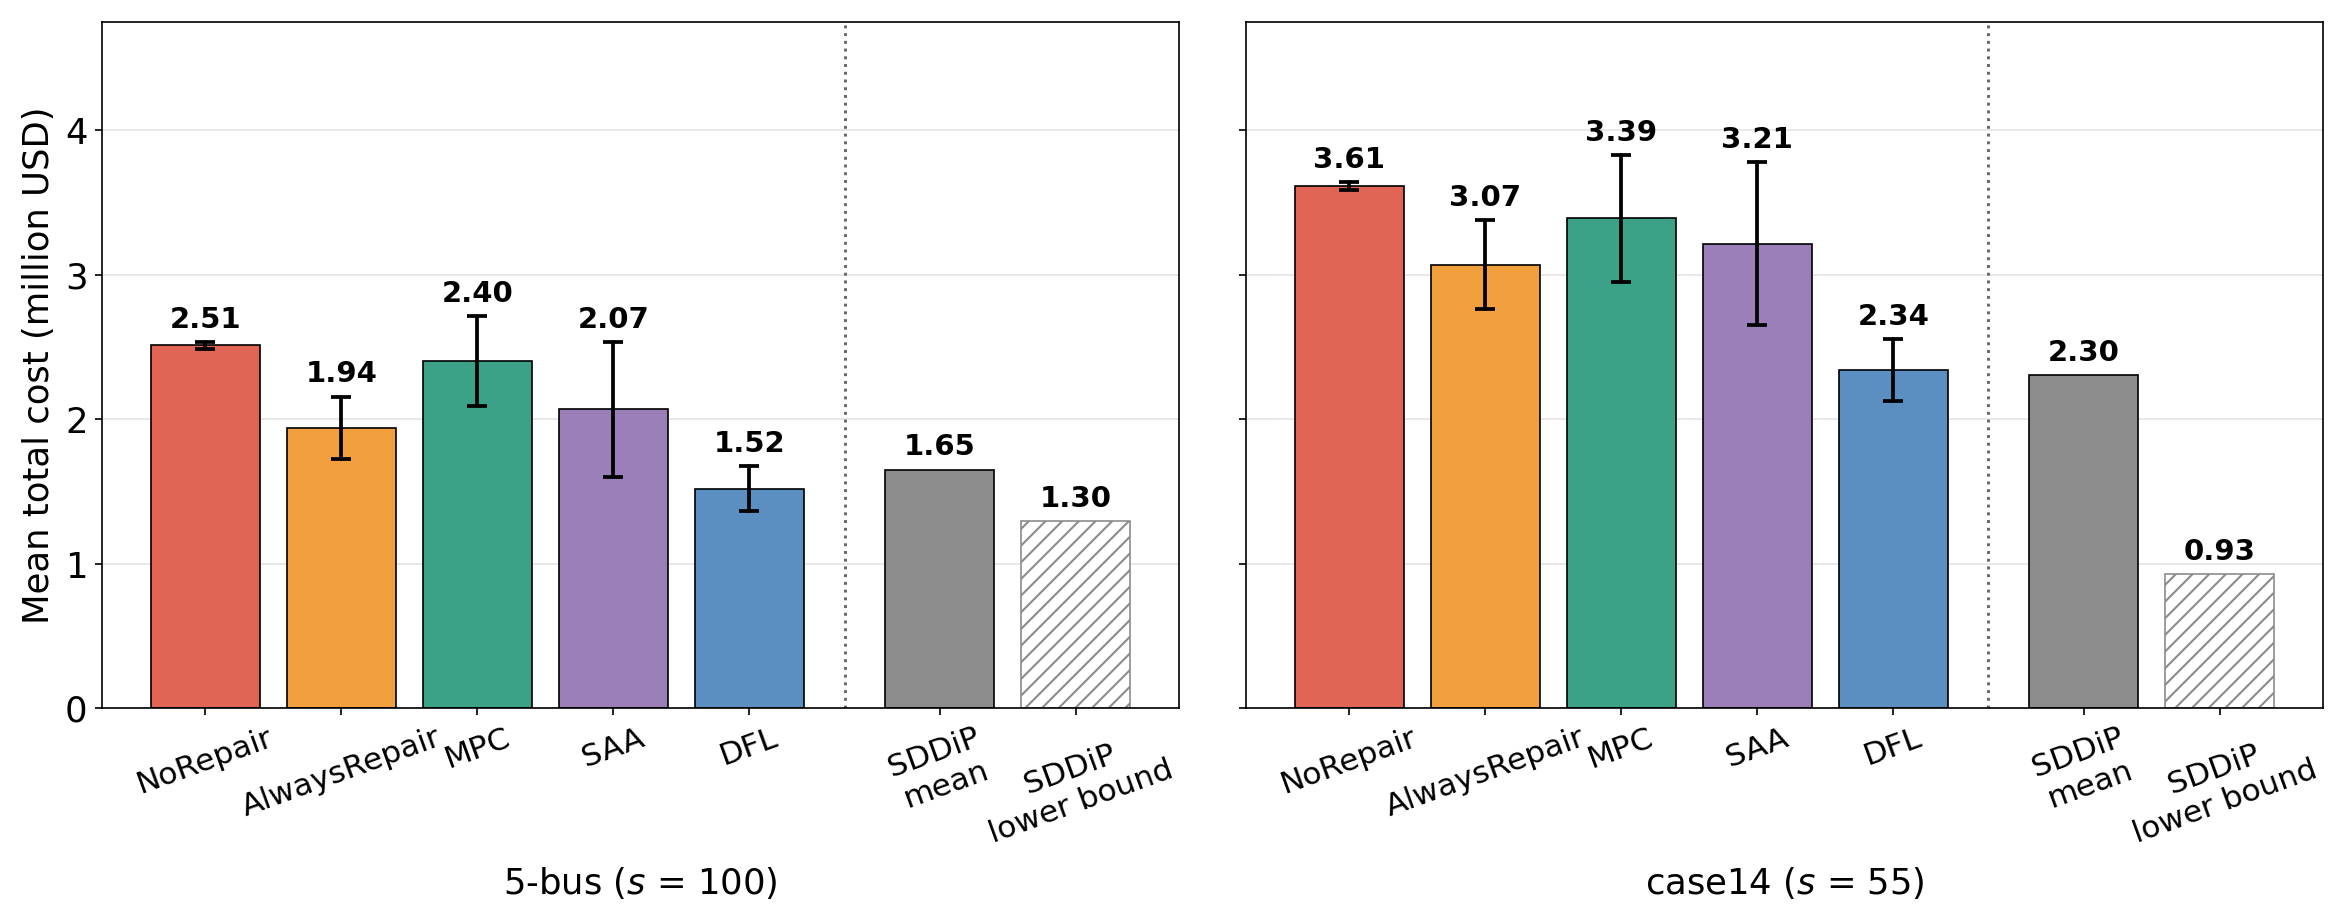
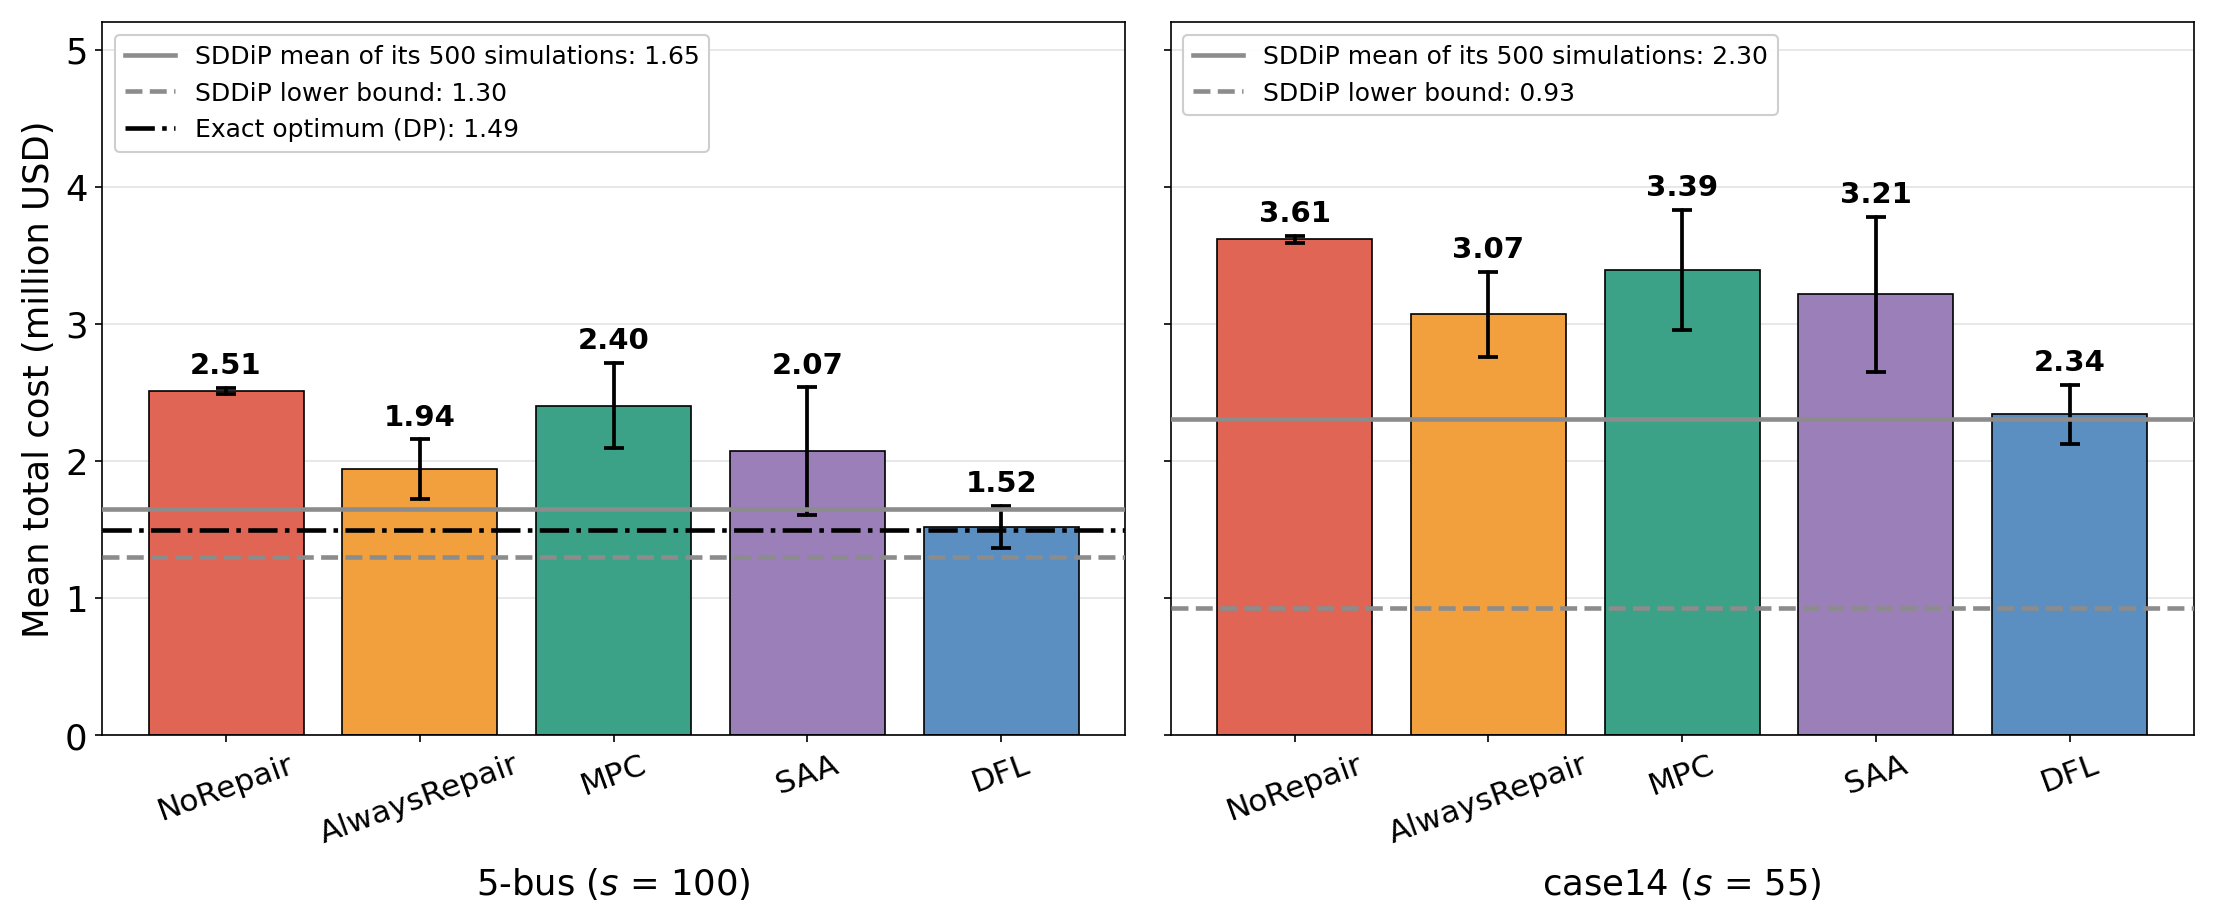
Adding budget cost bars with SDDiP references in the README -- CORRECTIONS

diff --git a/scripts/make_readme_figures.py b/scripts/make_readme_figures.py
@@ -9,8 +9,9 @@ Figures are written to ``docs/images/``, or to the folder given with ``--out``:
 
     toy_network.png          the synthetic 5-bus network (``toy``) with its data
     budget_cost_bars.png     budgeted mean cost of every method on the 5-bus network
-                             and on case14 at s = 55, with SDDiP's simulated mean
-                             and lower bound, read from ``experiments/``
+                             and on case14 at s = 55, with SDDiP's simulated mean and
+                             lower bound and the exact 5-bus optimum as reference
+                             lines, read from ``experiments/``
 
 The generators, loads and lines of the network, with their capacities, costs,
 demands, susceptances and flow limits, are read from
@@ -224,34 +225,39 @@ def _budget_lane(folder: str, network_name: str, scale: float) -> dict:
 
 
 def draw_budget_bars(path: Path) -> None:
-    """Budgeted mean costs of the methods, with SDDiP's simulated mean and lower bound as references."""
-    order = ["NoRepair", "AlwaysRepair", "MPC", "SAA", "DFL", "SDDiP mean", "SDDiP LB"]
-    x = np.array([0, 1, 2, 3, 4, 5.4, 6.4])
-    fig, axes = plt.subplots(1, len(PANELS), figsize=(16, 6.4), sharey=True)
+    """Budgeted mean costs of the methods, with SDDiP's simulated mean and lower bound, and the
+    exact optimum on the 5-bus network, as horizontal reference lines."""
+    order = ["NoRepair", "AlwaysRepair", "MPC", "SAA", "DFL"]
+    x = np.arange(len(order))
+    exact = json.loads((REPO / "experiments" / "exact_dp_toy" / "budgeted" / "exact_dp_solution.json")
+                       .read_text())["solution"]["exact_optimal_value"]
+    fig, axes = plt.subplots(1, len(PANELS), figsize=(15, 6.4), sharey=True)
     for ax, (folder, network_name, scale, label) in zip(axes, PANELS):
         stats = _budget_lane(folder, network_name, scale)
         print(f"  {label.replace('$', '')}, DFL at {stats['n_train']:,} scenarios:")
-        for m in order:
+        for m in order + ["SDDiP mean", "SDDiP LB"]:
             print(f"    {m:13s} mean {stats[m][0]:>12,.0f}   std {stats[m][1]:>10,.0f}")
         means = np.array([stats[m][0] for m in order]) / 1e6
         errs = np.array([stats[m][1] for m in order]) / 1e6
-        colors = [METHOD_COLORS[m.split()[0]] for m in order]
-        bars = ax.bar(x, means, color=colors, edgecolor="black", lw=0.8)
-        bars[-1].set_facecolor("white")
-        bars[-1].set_hatch("///")
-        bars[-1].set_edgecolor(METHOD_COLORS["SDDiP"])
-        ax.errorbar(x[:5], means[:5], yerr=errs[:5], fmt="none", ecolor="black",
-                    capsize=5, lw=1.8, capthick=1.8)
+        ax.bar(x, means, color=[METHOD_COLORS[m] for m in order], edgecolor="black", lw=0.8,
+               yerr=errs, capsize=5, error_kw={"lw": 1.8, "capthick": 1.8})
         for xi, m, e in zip(x, means, errs):
             ax.text(xi, m + e + 0.06, f"{m:.2f}", ha="center", va="bottom", fontsize=TICK - 1, fontweight="bold")
-        ax.axvline(4.7, color="0.4", ls=":", lw=1.4)
+        lines = [(stats["SDDiP mean"][0], "-", METHOD_COLORS["SDDiP"], "SDDiP mean of its 500 simulations"),
+                 (stats["SDDiP LB"][0], "--", METHOD_COLORS["SDDiP"], "SDDiP lower bound")]
+        if folder == "toy":
+            print(f"    {'Exact DP':13s} mean {exact:>12,.0f}")
+            lines.append((exact, "-.", "black", "Exact optimum (DP)"))
+        for value, style, color, name in lines:
+            ax.axhline(value / 1e6, ls=style, color=color, lw=2.2, zorder=3,
+                       label=f"{name}: {value / 1e6:.2f}")
+        ax.legend(loc="upper left", fontsize=TICK - 3, framealpha=0.95)
         ax.set_xticks(x)
-        ax.set_xticklabels(["NoRepair", "AlwaysRepair", "MPC", "SAA", "DFL", "SDDiP\nmean", "SDDiP\nlower bound"],
-                           rotation=20, fontsize=TICK)
+        ax.set_xticklabels(order, rotation=20, fontsize=TICK)
         ax.set_xlabel(label, fontsize=LABEL, labelpad=8)
         ax.grid(True, axis="y", alpha=0.35)
         ax.set_axisbelow(True)
-        ax.set_ylim(0, 4.75)
+        ax.set_ylim(0, 5.2)
     axes[0].set_ylabel("Mean total cost (million USD)", fontsize=LABEL)
     fig.tight_layout()
     path.parent.mkdir(parents=True, exist_ok=True)

diff --git a/README.md b/README.md
@@ -60,9 +60,9 @@ In the application, $`x_t`$ is the availability of the generators and lines, $`\
 Three configurations are reported, each with and without the budget: the 5-bus network at repair-cost scale $`s = 100`$, and case14 at $`s = 45`$ and $`s = 55`$. The scale $`s`$ multiplies every repair cost, and the budget caps the repair spend of each stage at the fraction $`\varphi = 0.3`$ of the cost of repairing every component. Costs are means over 500 common test scenarios.
 
 <p align="center">
-  <img src="docs/images/budget_cost_bars.png" width="90%" alt="Mean total cost with a repair budget of NoRepair, AlwaysRepair, Near-sighted MPC, SAA and DFL on the 5-bus network and on case14 at s = 55, with SDDiP's simulated mean and lower bound as references; DFL has the lowest cost of the methods on the common test set in both panels">
+  <img src="docs/images/budget_cost_bars.png" width="90%" alt="Mean total cost with a repair budget of NoRepair, AlwaysRepair, Near-sighted MPC, SAA and DFL on the 5-bus network and on case14 at s = 55, with horizontal lines for SDDiP's simulated mean and lower bound and, on the 5-bus network, the exact optimum; DFL has the lowest cost of the methods on the common test set in both panels">
 </p>
-<p align="center"><em>Mean total cost with the repair budget (budget fraction 0.3) on the 5-bus network at s = 100 and on case14 at s = 55. The first five bars are scored on the 500 common test scenarios, DFL at the best training size of its sweep, and the whiskers span ± one across-scenario standard deviation (for DFL, averaged over its five initializations). Right of the dotted line, as a reference, are SDDiP's mean over its own 500 policy simulations, which on case14 reuse the 256 sampled outcomes per stage of its training, and its final lower bound; neither is scored on the common test set. The exact optimum of the budgeted 5-bus problem is 1.49 million USD (<a href="#distance-to-the-exact-optimum">Distance to the exact optimum</a>).</em></p>
+<p align="center"><em>Mean total cost with the repair budget (budget fraction 0.3) on the 5-bus network at s = 100 and on case14 at s = 55. The first five bars are scored on the 500 common test scenarios, DFL at the best training size of its sweep, and the whiskers span ± one across-scenario standard deviation (for DFL, averaged over its five initializations). The horizontal lines are references: SDDiP's mean over its own 500 policy simulations (solid), which on case14 reuse the 256 sampled outcomes per stage of its training, its final lower bound (dashed), neither scored on the common test set, and on the 5-bus network the exact optimum from dynamic programming (dash-dot, <a href="#distance-to-the-exact-optimum">Distance to the exact optimum</a>).</em></p>
 
 - Under the binding budget, [DFL has the lowest mean cost of the policies scored on the common test set](#mean-cost-with-a-budget) in all three configurations, at 21.6% (5-bus), 21.7% (case14, $`s = 45`$) and 23.7% (case14, $`s = 55`$) below AlwaysRepair.
 - [Without a budget](#mean-cost-without-a-budget), the outcome depends on the cost regime. DFL is the cheapest of these policies on the 5-bus network (6.8% below AlwaysRepair). On case14, Near-sighted MPC is cheapest, and DFL costs 7.6% more than AlwaysRepair at $`s = 45`$ and 2.8% less at $`s = 55`$, two scales near the crossing point of the [repair-cost sweep](#repair-cost-sensitivity).

diff --git a/scripts/README.md b/scripts/README.md
@@ -4,7 +4,7 @@ Helper scripts of the repository. Run all of them from the repository root.
 
 - [`quick_check.sh`](quick_check.sh) checks a checkout end to end on a laptop in about a minute.
 - [`sensitivity_plot.py`](sensitivity_plot.py) builds the table and plots of the repair-cost sensitivity sweep.
-- [`make_readme_figures.py`](make_readme_figures.py) draws the two figures of the top-level README that the paper does not have: `docs/images/toy_network.png`, the 5-bus network from the data in `network_data.py`, and `docs/images/budget_cost_bars.png`, the budgeted mean cost of every method on the 5-bus network and on case14 at $`s = 55`$, with SDDiP's simulated mean and lower bound, read from `experiments/`. The script prints every plotted value.
+- [`make_readme_figures.py`](make_readme_figures.py) draws the two figures of the top-level README that the paper does not have: `docs/images/toy_network.png`, the 5-bus network from the data in `network_data.py`, and `docs/images/budget_cost_bars.png`, the budgeted mean cost of every method on the 5-bus network and on case14 at $`s = 55`$, with SDDiP's simulated mean and lower bound and the exact 5-bus optimum as reference lines, read from `experiments/`. The script prints every plotted value.
 - [`slurm/`](slurm) holds the SLURM job scripts that produced the results stored in [`experiments/`](../experiments/README.md), the environment setup, and a suite of [smoke tests](slurm/smoke/README.md). The experiments ran on the Snellius cluster, partition `rome` (AMD EPYC 7H12 nodes).
 
 Installation and the Python entry points are described in the [top-level README](../README.md), the stored results in [`experiments/README.md`](../experiments/README.md), and the scripts that recompute the reported numbers and figures in [`paper/README.md`](../paper/README.md).
